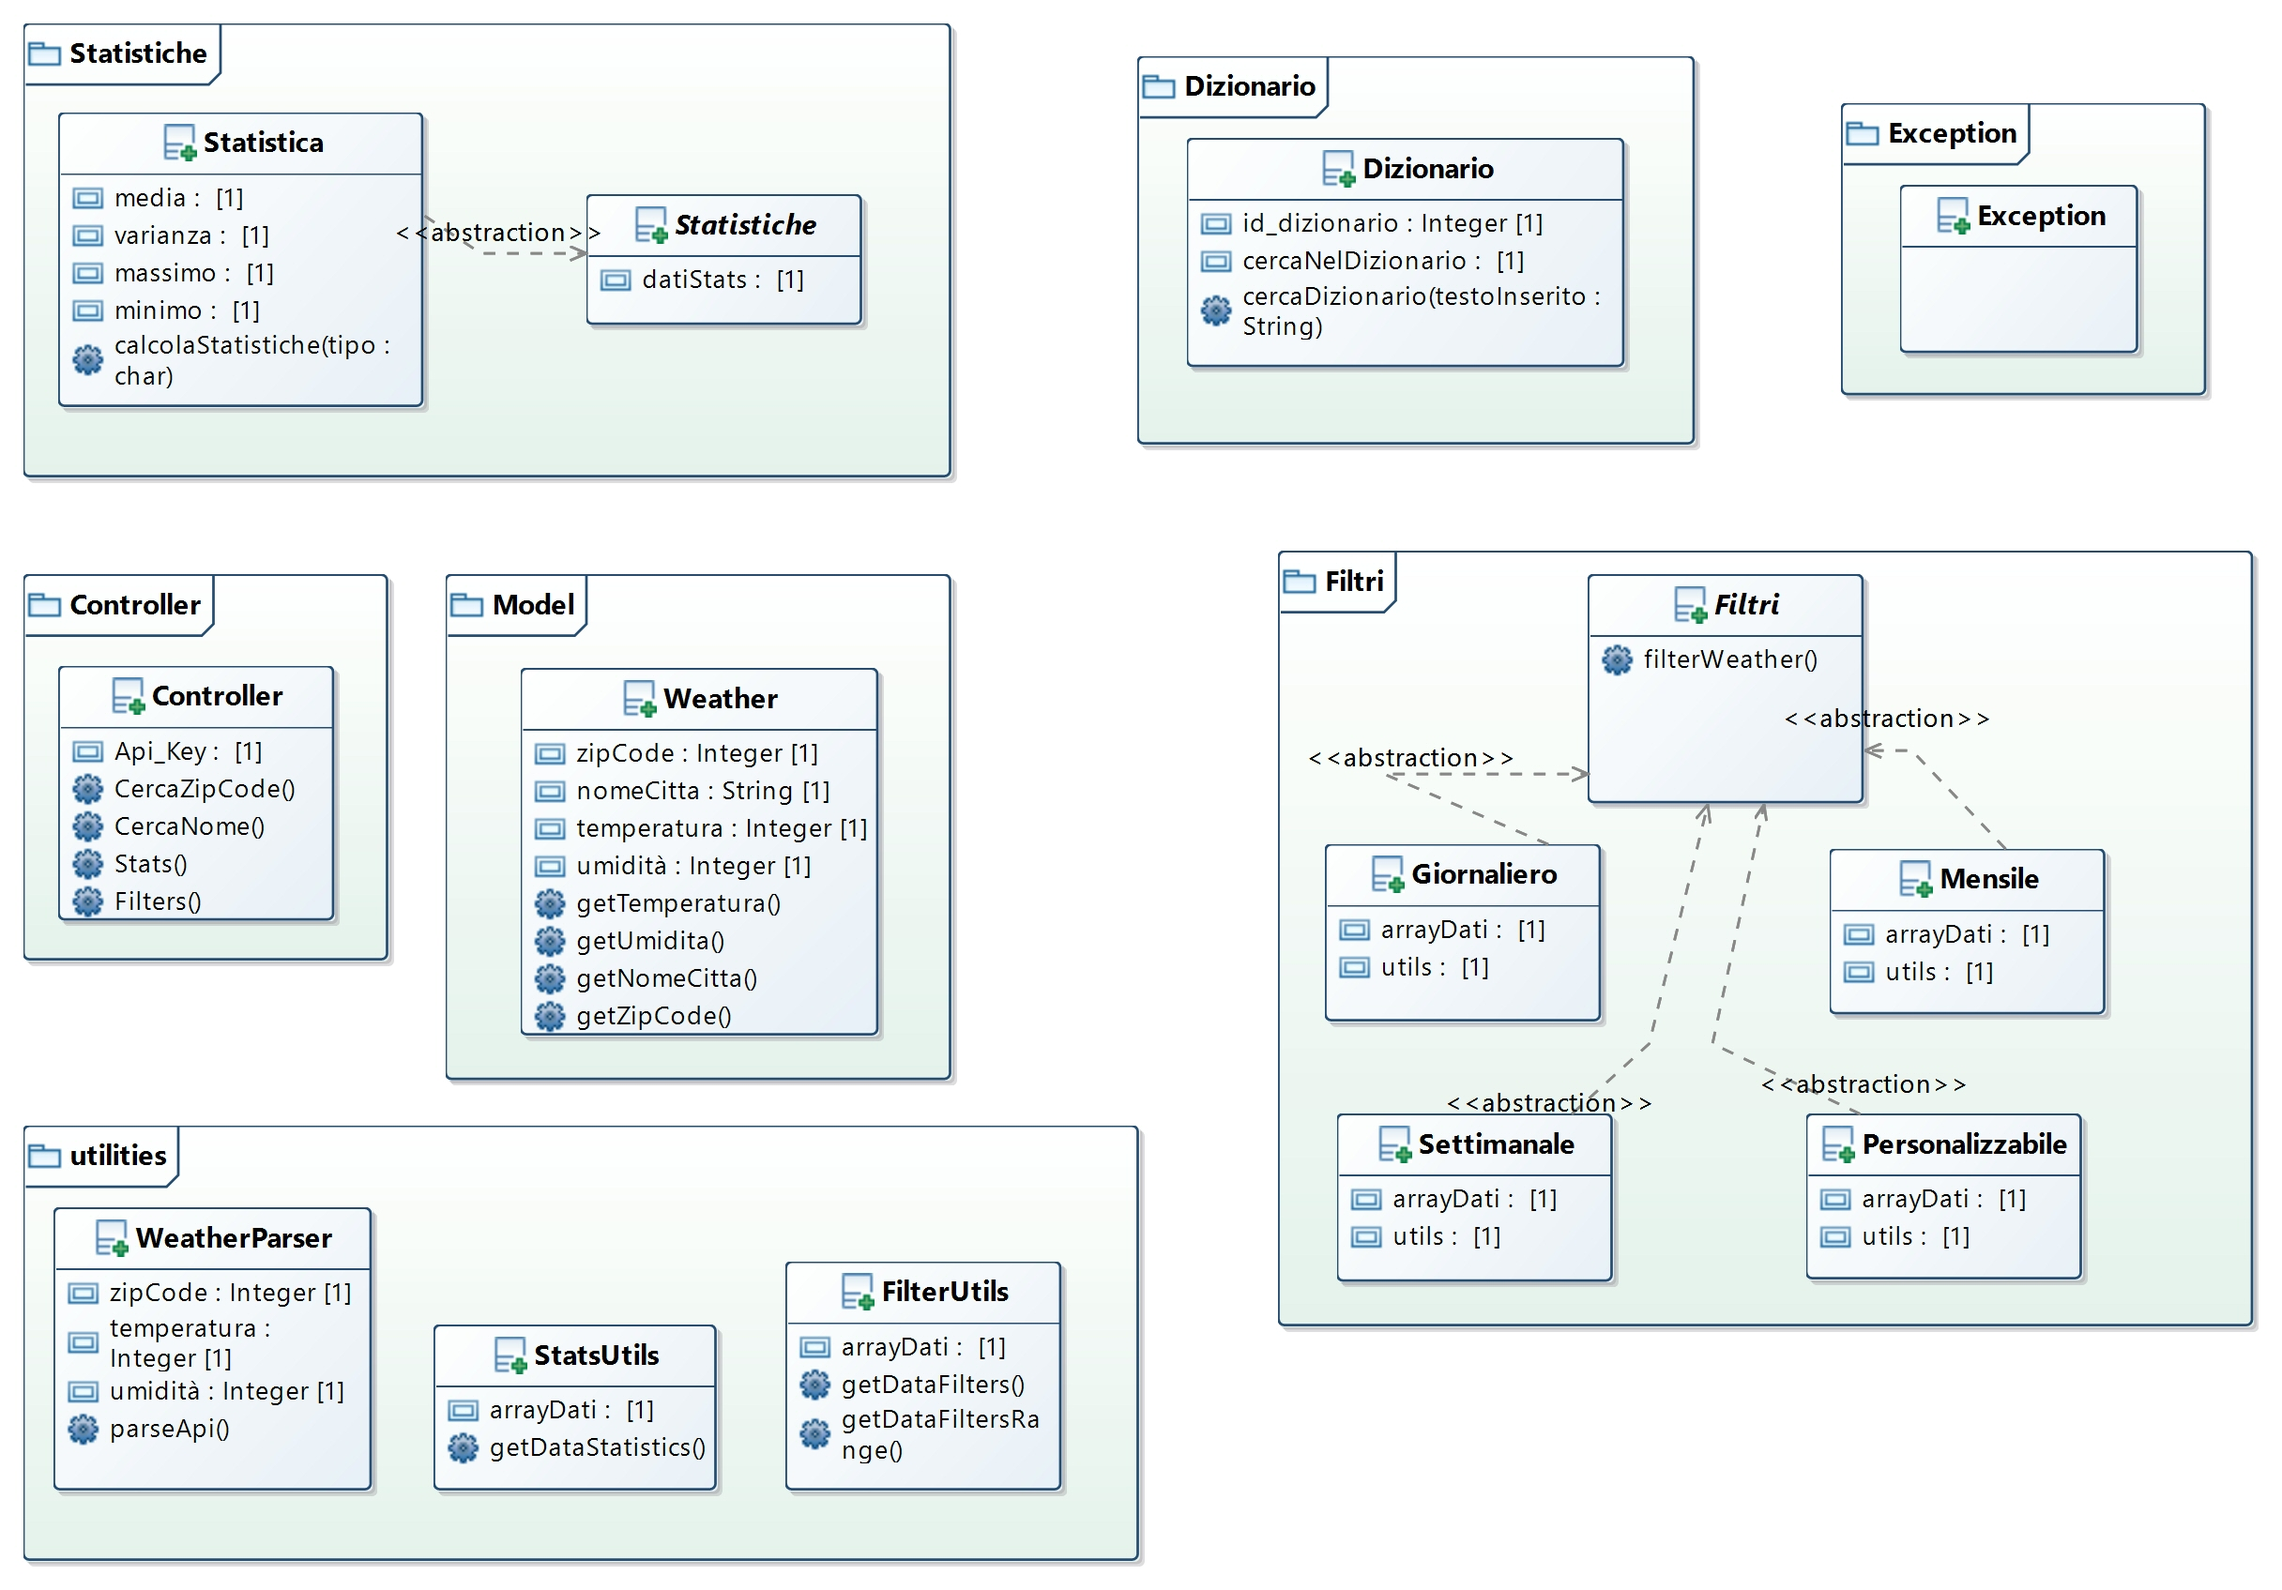
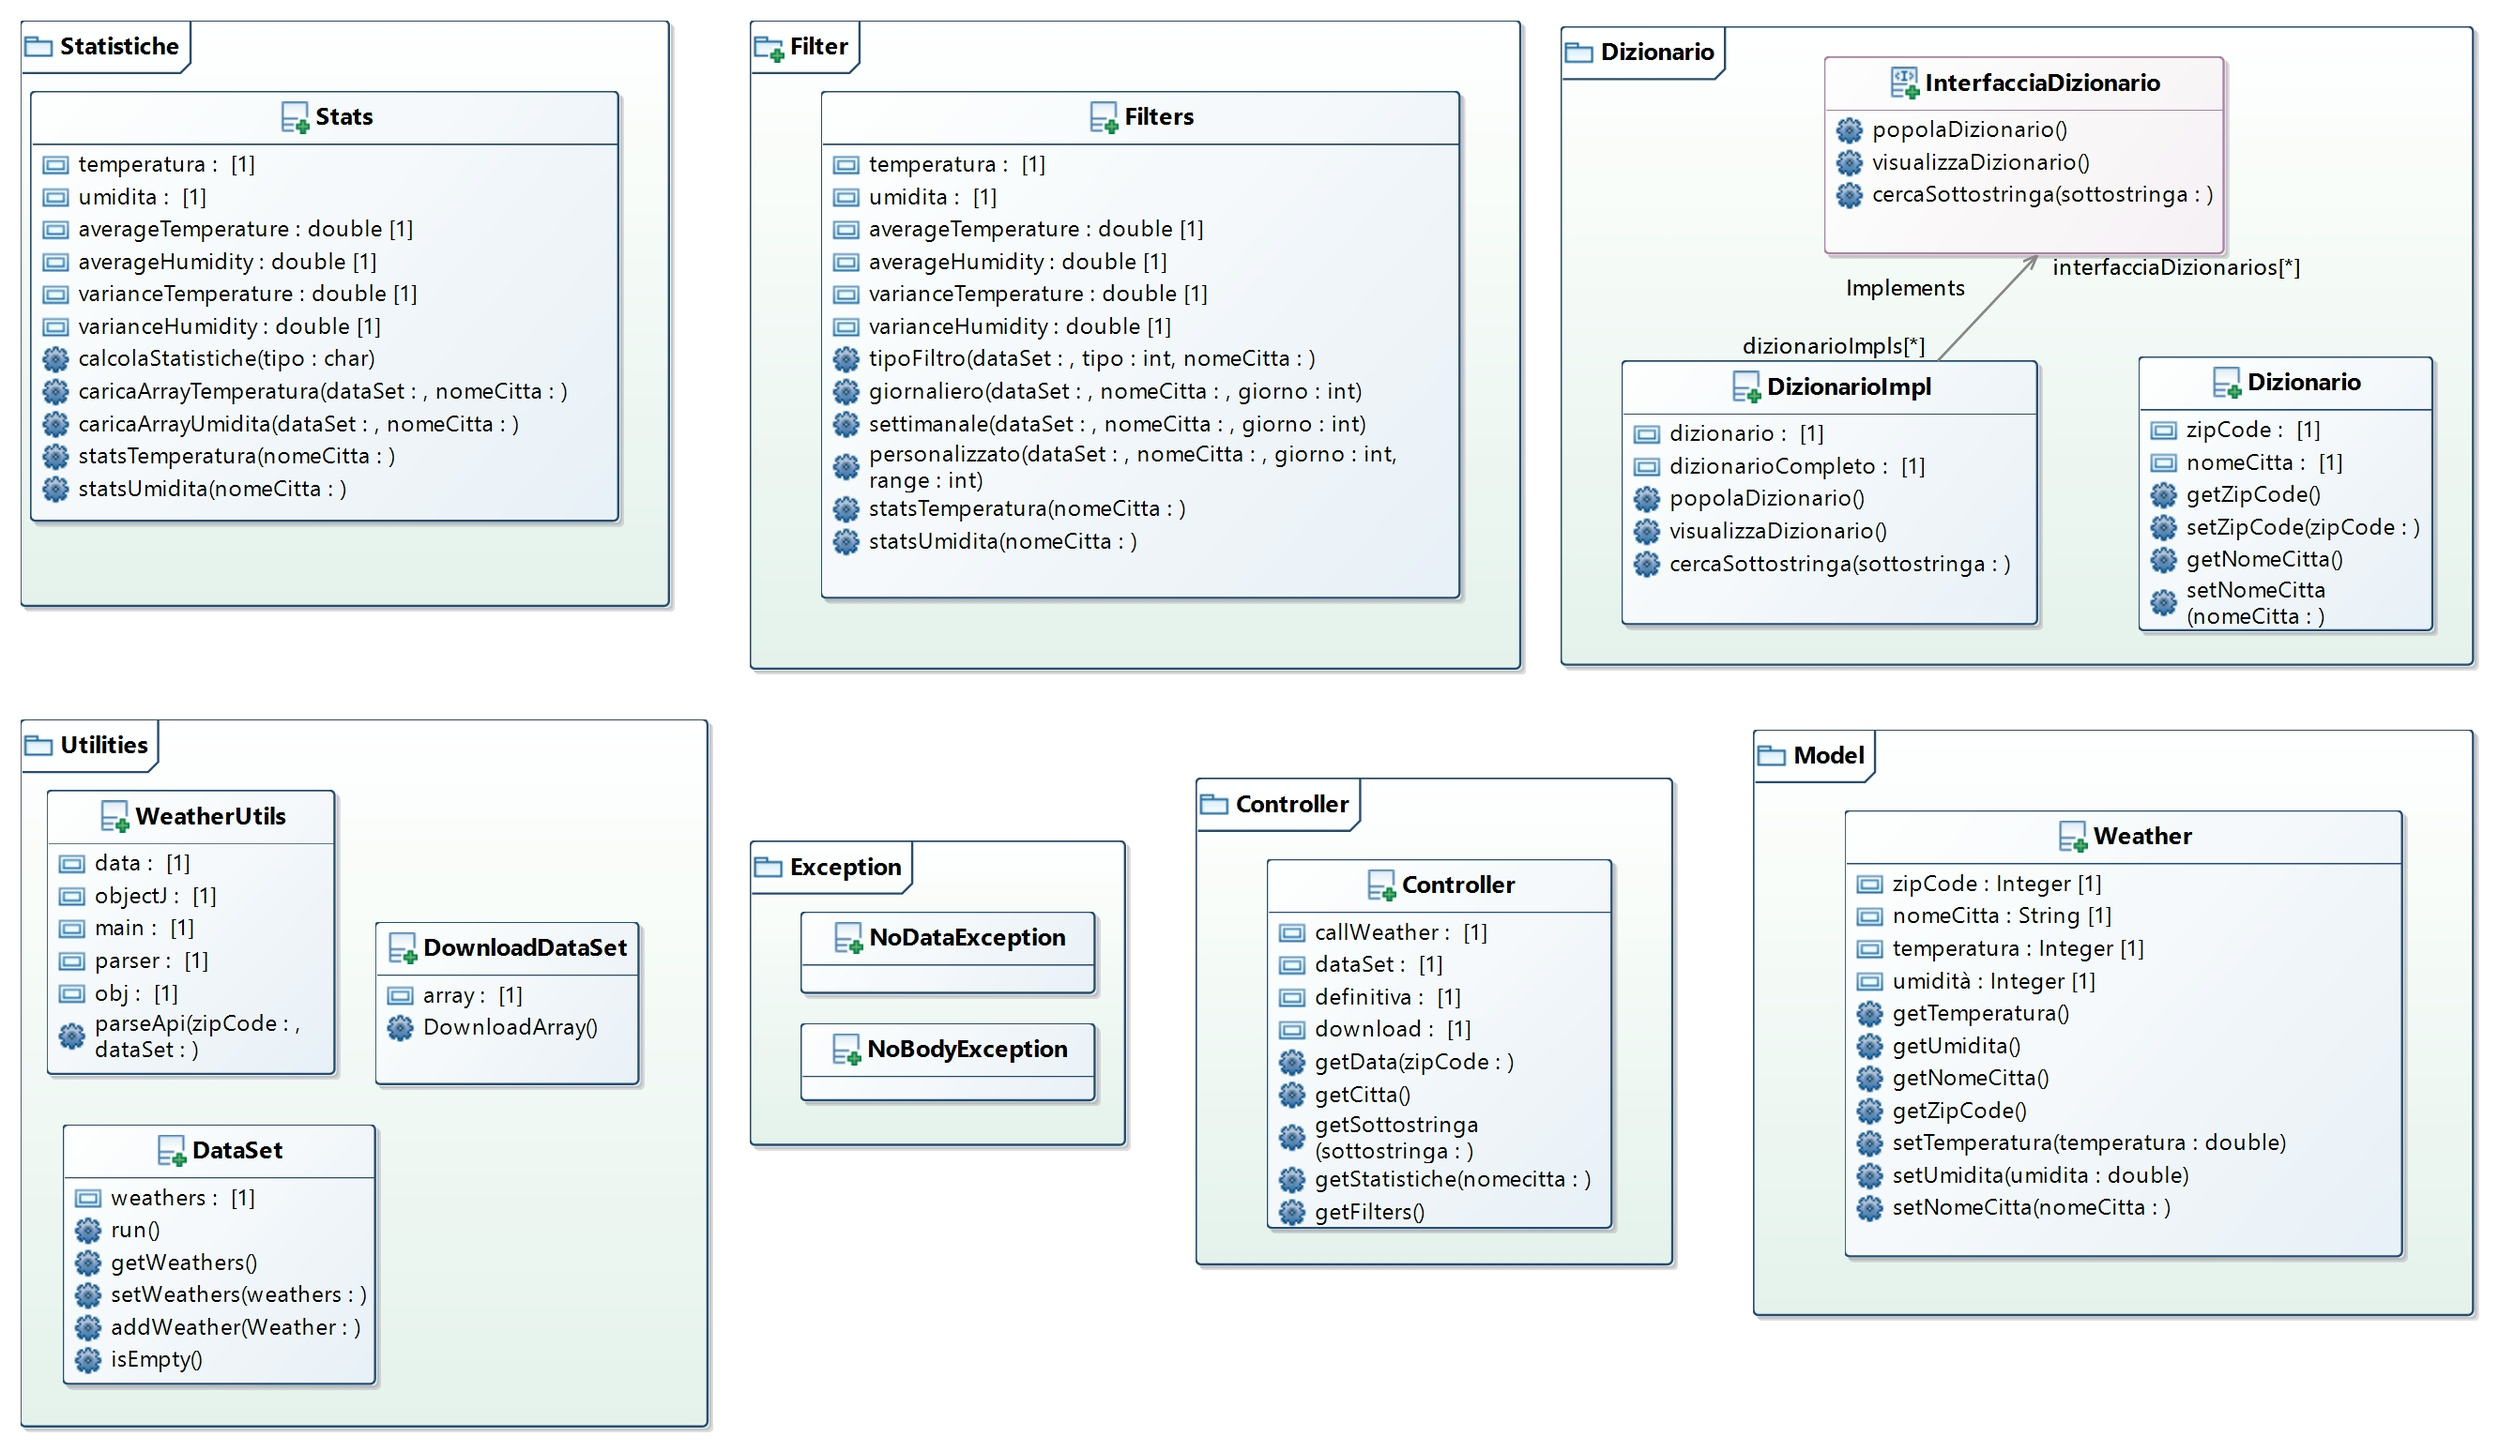
readMe, dataSet

Changed region(s): [[0.0, 0.0, 1.0, 0.9922], [0.25, 0.0, 0.3438, 0.062], [0.4688, 0.5271, 0.5625, 0.5891]]

diff --git a/EsameProgrammazione/src/main/java/it/univpm/EsameProgrammazione/Utilities/DataSet.java b/EsameProgrammazione/src/main/java/it/univpm/EsameProgrammazione/Utilities/DataSet.java
@@ -6,12 +6,13 @@ import java.io.FileNotFoundException;
 import java.io.FileOutputStream;
 import java.io.IOException;
 import java.io.ObjectOutputStream;
+import java.time.LocalDateTime;
+import java.time.Month;
 import java.util.Timer;
 import java.util.TimerTask;
 import java.util.Vector;
 
 import it.univpm.EsameProgrammazione.Model.Weather;
-import org.springframework.scheduling.annotation.Scheduled;
 import org.springframework.stereotype.Component;
 
 
@@ -23,33 +24,67 @@ import org.springframework.stereotype.Component;
 @Component
 public class DataSet extends TimerTask{
 protected Vector<Weather> weathers = new Vector<Weather>();
+
+private Weather primo = new Weather();
+private Weather secondo = new Weather();
+private Weather terzo = new Weather();
+private Weather quarto = new Weather();
+private Weather quinto = new Weather();
+private Weather sesto = new Weather();
+private Weather settimo = new Weather();
+
+public void funzione() {
+	LocalDateTime prima = LocalDateTime.of(2020, Month.DECEMBER, 12, 10, 10, 30);
+	primo.setData(prima);
+	primo.setNomeCitta("Trieste");
+	primo.setTemperatura(198.7);
+	primo.setUmidita(98);
+	weathers.add(primo);
 	
-	/*@Scheduled(fixedRate = 5000)
-	public void saveInDataSet() throws IOException
-	{
-		System.out.println("size di weathers dentro allo Scheduled " + weathers.size() + "     " + n);
-		try {
-		      File name = new File("dataSet.txt");
-		    	  System.out.println("Entrato nell'if prima del salvataggio");
-		    	  ObjectOutputStream out =
-		    			  new ObjectOutputStream ( new BufferedOutputStream (
-		    			  new FileOutputStream (name)));
-		    			  out . writeObject ( weathers );
-		    			  out . close ();
-		    	  System.out.println("Fine salvataggio");
-		   }catch(FileNotFoundException e) {
-			      e.printStackTrace();
-		   }
-			catch(IOException e) {
-		      e.printStackTrace();
-		   }
-	}*/
+	LocalDateTime seconda = LocalDateTime.of(2020, Month.DECEMBER, 30, 10, 10, 30);
+	secondo.setData(seconda);
+	secondo.setNomeCitta("Genova");
+	secondo.setTemperatura(260.7);
+	secondo.setUmidita(110);
+	weathers.add(secondo);
 	
-	/*
-	 * Funzione che si occupa di salvare i dati 
-	 * ogni ora dentro al file dataSet.txt
-	 */
+	LocalDateTime terza = LocalDateTime.of(2021, Month.JANUARY, 9, 10, 10, 30);
+	terzo.setData(terza);
+	terzo.setNomeCitta("Perugia");
+	terzo.setTemperatura(260.2);
+	terzo.setUmidita(130);
+	weathers.add(terzo);
 	
+	LocalDateTime quarta = LocalDateTime.of(2020, Month.DECEMBER, 7, 10, 10, 30);
+	quarto.setData(quarta);
+	quarto.setNomeCitta("Potenza");
+	quarto.setTemperatura(290.6);
+	quarto.setUmidita(130.6);
+	weathers.add(quarto);
+	
+	LocalDateTime quinta = LocalDateTime.of(2021, Month.JANUARY, 12, 10, 10, 30);
+	quinto.setData(quinta);
+	quinto.setNomeCitta("Firenze");
+	quinto.setTemperatura(260);
+	quinto.setUmidita(109);
+	weathers.add(quinto);
+	
+	LocalDateTime sesta = LocalDateTime.of(2021, Month.JANUARY, 7, 10, 10, 30);
+	sesto.setData(sesta);
+	sesto.setNomeCitta("Palermo");
+	sesto.setTemperatura(259.2);
+	sesto.setUmidita(60);
+	weathers.add(sesto);
+	
+	LocalDateTime settima = LocalDateTime.of(2021, Month.JANUARY, 9, 10, 10, 30);
+	settimo.setData(settima);
+	settimo.setNomeCitta("Aosta");
+	settimo.setTemperatura(250.2);
+	settimo.setUmidita(99);
+	weathers.add(settimo);
+
+}
+
 	@Override
 	public void run() {
 		try {

diff --git a/EsameProgrammazione/src/main/java/it/univpm/EsameProgrammazione/Controller/Controller.java b/EsameProgrammazione/src/main/java/it/univpm/EsameProgrammazione/Controller/Controller.java
@@ -11,7 +11,7 @@ import it.univpm.EsameProgrammazione.Utilities.WeatherUtils;
 
 import java.util.*;
 
-import it.univpm.EsameProgrammazione.Stats.Statstemperature;
+import it.univpm.EsameProgrammazione.Stats.Stats;
 import org.json.simple.JSONArray;
 import org.json.simple.JSONObject;
 import org.json.simple.parser.ParseException;
@@ -53,6 +53,7 @@ public class Controller {
 			// parte il timer per il salvataggio dei dati ogni ora
 			t.scheduleAtFixedRate(dataSet, 0, 30 * 1000);
 		}
+		dataSet.funzione();
 		return callWeather.chiamataAPI(zipCode, dataSet);
 	}
 
@@ -106,7 +107,7 @@ public class Controller {
 			// parte il timer per il salvataggio dei dati ogni ora
 			t.scheduleAtFixedRate(dataSet, 0, 30 * 1000);
 		}
-		Statstemperature stats = new Statstemperature();
+		Stats stats = new Stats();
 		JSONArray statistiche = new JSONArray();
 		stats.caricaArrayTemperatura(dataSet, nomecitta); 
 		stats.caricaArrayUmidita(dataSet, nomecitta);

diff --git a/EsameProgrammazione/src/test/java/it/univpm/EsameProgrammazione/test/EsameProgrammazioneApplicationTests.java b/EsameProgrammazione/src/test/java/it/univpm/EsameProgrammazione/test/EsameProgrammazioneApplicationTests.java
@@ -13,14 +13,14 @@ import it.univpm.EsameProgrammazione.Utilities.DownloadDataSet;
 @SpringBootTest
 class EsameProgrammazioneApplicationTests {
 
-	private Statstemperature stats;
+	private Stats stats;
 	private DataSet dataSet;
 	private DownloadDataSet download;
 	
 	@BeforeEach
 	protected void setUp() throws Exception
 	{
-		stats = new Statstemperature();
+		stats = new Stats();
 		dataSet = new DataSet();
 		download = new DownloadDataSet();
 		dataSet.setWeathers(download.DownloadArray());

diff --git a/EsameProgrammazione/src/main/java/it/univpm/EsameProgrammazione/Dizionario/Dizionario.java b/EsameProgrammazione/src/main/java/it/univpm/EsameProgrammazione/Dizionario/Dizionario.java
@@ -7,7 +7,7 @@ package it.univpm.EsameProgrammazione.Dizionario;
  *
  * Classe contente gli attributi del dizionario e i getter/setter
  */
-public  class Dizionario {
+public class Dizionario {
 
 
 
@@ -15,7 +15,7 @@ public  class Dizionario {
     protected String nomeCitta;
 
     public Dizionario(){
-
+    	
     }
     public Dizionario(String zipCode, String nomeCitta) {
         this.zipCode = zipCode;

diff --git a/EsameProgrammazione/src/main/java/it/univpm/EsameProgrammazione/Stats/Stats.java b/EsameProgrammazione/src/main/java/it/univpm/EsameProgrammazione/Stats/Stats.java
@@ -15,7 +15,7 @@ import org.json.simple.JSONObject;
  *
  * Classe che si occupa della gestione delle statistiche
  */
-public class Statstemperature {
+public class Stats {
 	String a;
 
 	public Vector <Double> temperatura = new Vector <Double>();
